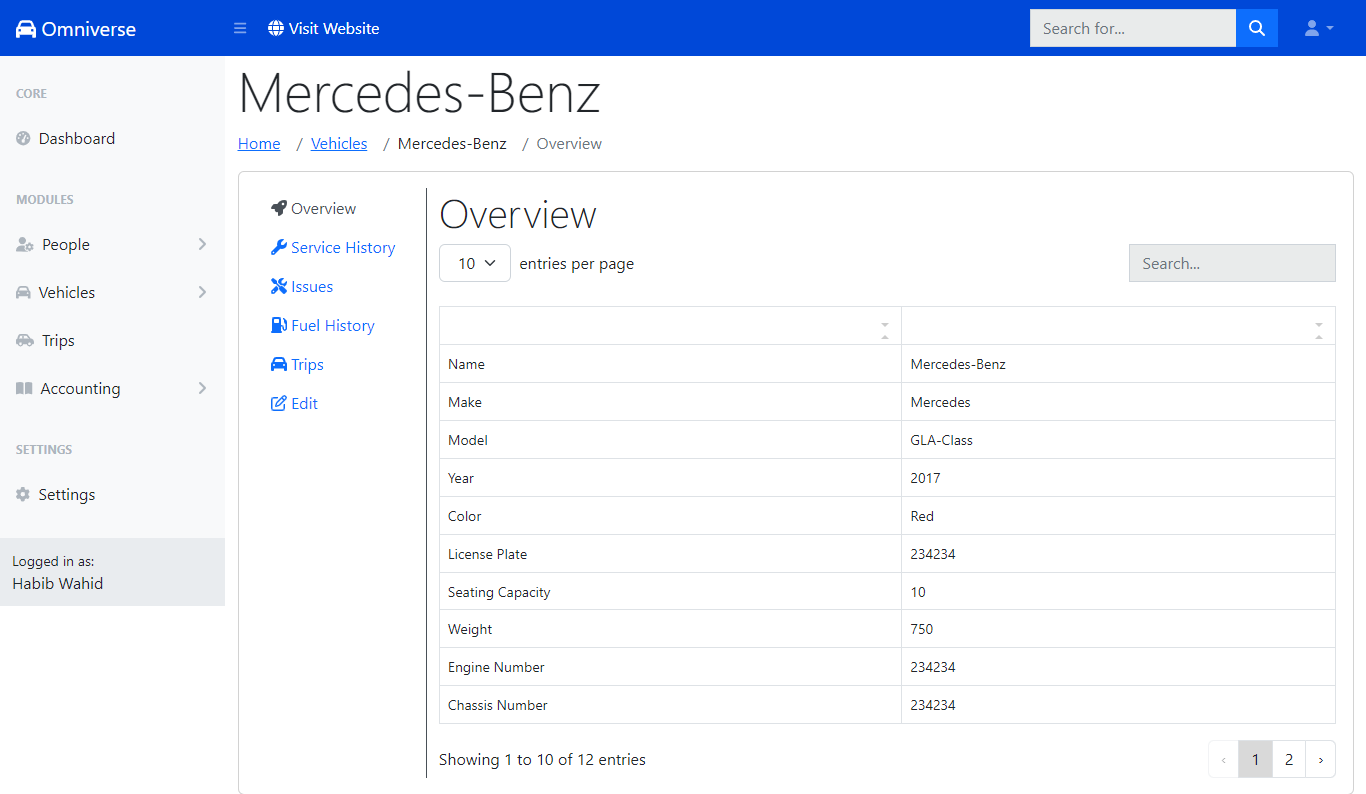
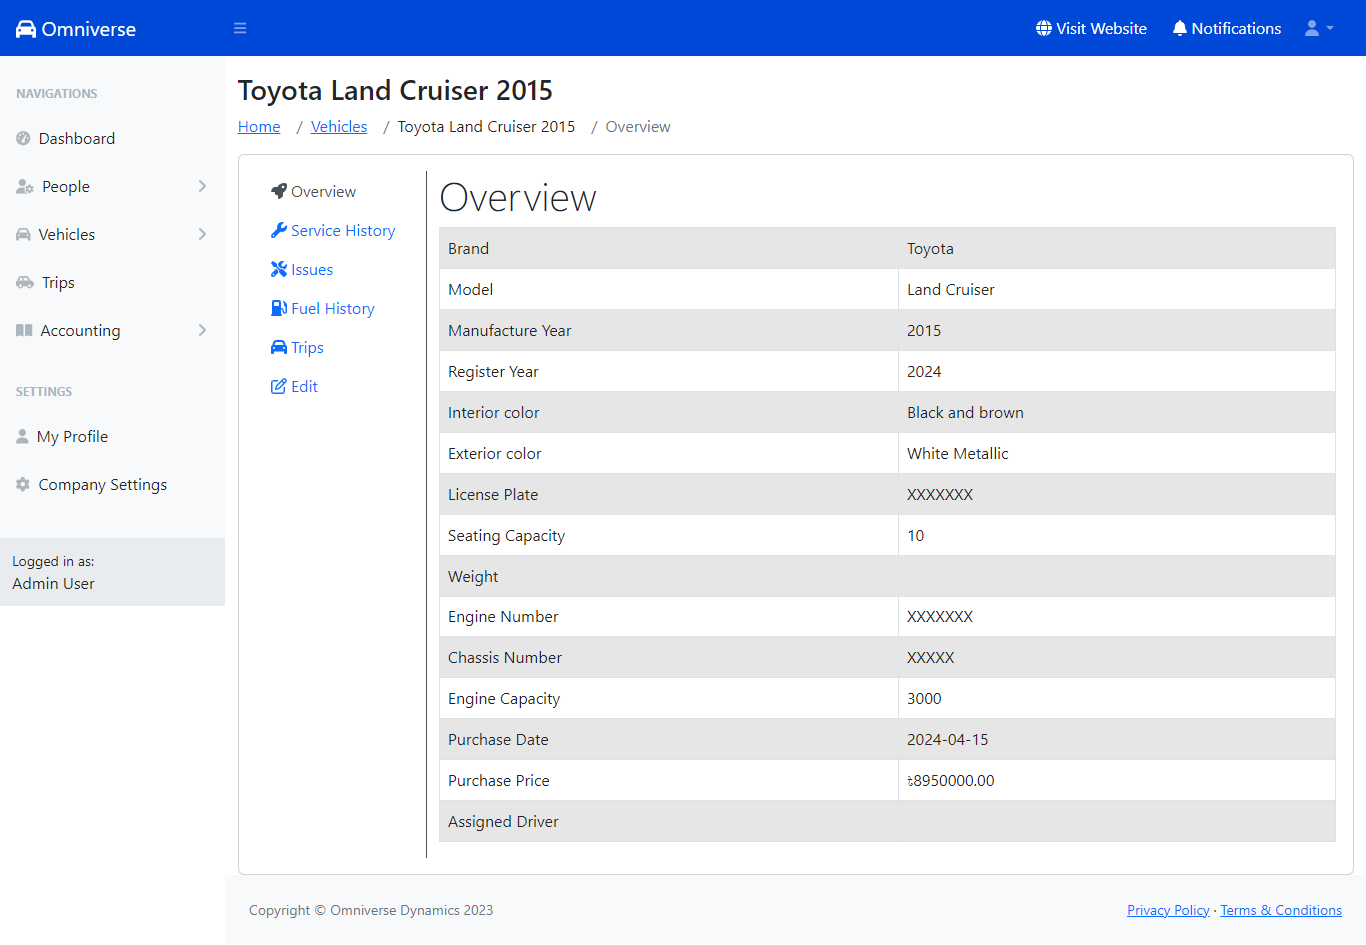
y

diff --git a/resources/language/বাংলা.php b/resources/language/বাংলা.php
@@ -942,3 +942,4 @@ $language["Client Registration"]="ক্লায়েন্ট রেজিস
 $language["Clients interested in exploring our range of services can create an account with Omniverse Dynamics in just a few simple steps. After registration, clients gain access to our platforms full suite of features, enabling them to browse detailed car listings with ease. Our user-friendly interface ensures a seamless browsing experience, allowing clients to find the perfect vehicle for their needs quickly and efficiently."]="ওমনিভার্স ডায়নামিক্সর সেবা সম্পর্কে জানতে আগ্রহী হলে, আমাদের সাথে কয়েকটি সহজ পদক্ষেপে একটি অ্যাকাউন্ট খুলতে পারেন। রেজিস্ট্রেশনের পর, আমাদের প্लेटফর্মের সমস্ত ফিচার আপনার জন্য উন্মুক্ত হয়ে যাবে। এর ফলে আপনি সহজেই বিস্তারিত গাড়ির তালিকা দেখতে পারবেন। আমাদের ব্যবহারকারী-বান্ধব ইন্টারফেস একটি স্বচ্ছ ব্রাউজিং অভিজ্ঞতা নিশ্চিত করে, যা আপনাকে দ্রুত এবং দক্ষতার সাথে আপনার প্রয়োজনীয় গাড়িটি খুঁজে পেতে সাহায্য করে।";
 $language["Blog"]="ব্লগ";
 $language["Our Blog"]="আমাদের ব্লগ";
+$language["Notifications"]="বিজ্ঞপ্তি";

diff --git a/resources/views/backend/layouts/sidebar.blade.php b/resources/views/backend/layouts/sidebar.blade.php
@@ -4,15 +4,14 @@
             <a class="navbar-brand ps-3" href="{{route('dashboard')}}"> <i class="fas fa-car"></i> {{ get_company_option('company_name') }} </a>
             <!-- Sidebar Toggle-->
             <button class="btn btn-link btn-sm order-1 order-lg-0 me-4 me-lg-0" id="sidebarToggle" href="#!"><i class="fas fa-bars"></i></button>
-          <a href="/" target="_blank" class="btn btn-default text-white"> <i class="fas fa-globe"></i> {{_lang('Visit Website')}} </a>
+
             <!-- Navbar Search-->
-            <form class="d-none d-md-inline-block form-inline ms-auto me-0 me-md-3 my-2 my-md-0">
-                <div class="input-group">
-                    <input class="form-control" type="text" placeholder="Search for..." aria-label="Search for..." aria-describedby="btnNavbarSearch" />
-                    <button class="btn btn-primary" id="btnNavbarSearch" type="button"><i class="fas fa-search"></i></button>
-                </div>
-            </form>
+            <span class="d-none d-md-inline-block form-inline ms-auto me-0 me-md-3 my-2 my-md-0">
+             
+            </span>
             <!-- Navbar-->
+            <a href="/" target="_blank" class="btn btn-default text-white"> <i class="fas fa-globe"></i> {{_lang('Visit Website')}} </a>
+            <a href="#"  class="btn btn-default text-white"> <i class="fas fa-bell"></i> {{_lang('Notifications')}} </a>
             <ul class="navbar-nav ms-auto ms-md-0 me-3 me-lg-4">
                
     <li class="nav-item dropdown">

diff --git a/app/Http/Controllers/ProfileController.php b/app/Http/Controllers/ProfileController.php
@@ -3,12 +3,12 @@
 namespace App\Http\Controllers;
 
 use Illuminate\Http\Request;
-use Image;
 use App\Models\Contact;
 use App\Models\User;
 use Auth;
 use DB;
 use Hash;
+
 use Illuminate\Validation\Rule;
 
 
@@ -39,16 +39,19 @@ class ProfileController extends Controller {
 
         DB::beginTransaction();
 
-        $profile        = Auth::user();
-        $profile->name  = $request->name;
+        $profile = Auth::user();
+        $profile->name = $request->name;
         $profile->email = $request->email;
         if ($request->hasFile('profile_picture')) {
-            $image     = $request->file('profile_picture');
+            $image = $request->file('profile_picture');
             $file_name = "profile_" . time() . '.' . $image->getClientOriginalExtension();
-            Image::make($image)->crop(300, 300)->save(base_path('public/uploads/profile/') . $file_name);
+        
+            // Move the uploaded file to the desired location
+            $image->move(public_path('uploads/profile/'), $file_name);
+        
             $profile->profile_picture = $file_name;
         }
-
+        
         $profile->save();
 
         //Update Contact

diff --git a/config/app.php b/config/app.php
@@ -169,6 +169,8 @@ return [
         App\Providers\EventServiceProvider::class,
         App\Providers\RouteServiceProvider::class,
         App\Providers\TranslationServiceProvider::class,
+
+    
     ])->toArray(),
 
     /*
@@ -184,6 +186,7 @@ return [
 
     'aliases' => Facade::defaultAliases()->merge([
         // 'Example' => App\Facades\Example::class,
+
     ])->toArray(),
 
 ];
